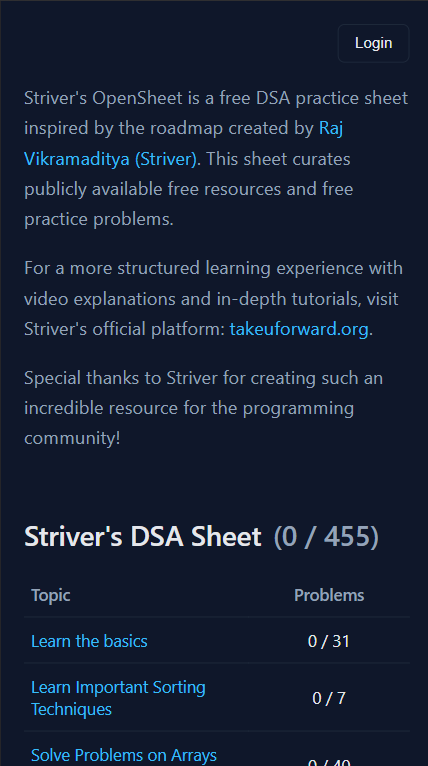
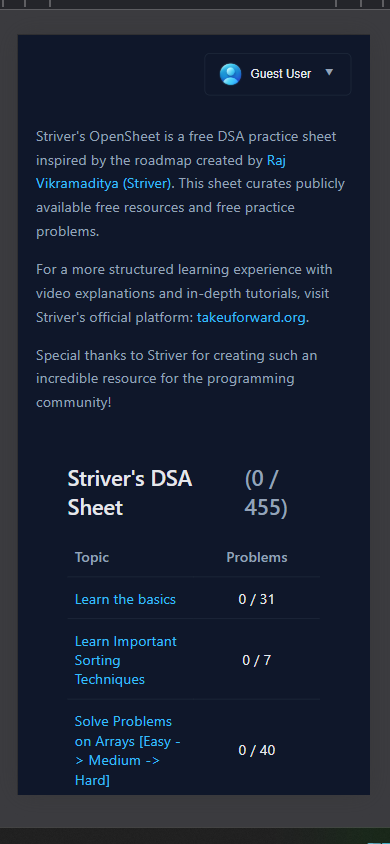
fix: restore PWA installability
Resolve the PWA configuration to make the application installable
on supported devices and browsers.

Version: v0.7.3

diff --git a/docs/sw.js b/docs/sw.js
@@ -1,67 +1,50 @@
-/**
- * File         : docs/sw.js
- * Description  : Service Worker for offline caching
- */
-
-const CACHE_NAME = "strivers-opensheet";
+const CACHE = `striveropensheet`;
 
 const STATIC_ASSETS = [
   "./",
   "./index.html",
-  "./topic.html",
-  "./settings.html",
+  "./manifest.json",
 
   "./styles/main.css",
   "./styles/index.css",
-  "./styles/topic.css",
+  "./styles/header.css",
   "./styles/settings.css",
+  "./styles/topic.css",
 
   "./scripts/main.js",
   "./scripts/index.js",
-  "./scripts/topic.js",
   "./scripts/header.js",
   "./scripts/settings.js",
+  "./scripts/topic.js",
 
-  "./data/topics.json",
+  "./assets/guest.png",
+  "./data/topics.png",
 ];
 
-/* ---------- Install ---------- */
-self.addEventListener("install", (event) => {
-  event.waitUntil(
-    caches.open(CACHE_NAME).then((cache) => cache.addAll(STATIC_ASSETS))
-  );
+self.addEventListener("install", (e) => {
+  e.waitUntil(caches.open(CACHE).then((cache) => cache.addAll(STATIC_ASSETS)));
+  self.skipWaiting();
 });
 
-/* ---------- Activate ---------- */
-self.addEventListener("activate", (event) => {
-  event.waitUntil(
-    caches.keys().then((keys) =>
-      Promise.all(
-        keys.map((key) => {
-          if (key !== CACHE_NAME) return caches.delete(key);
-        })
+self.addEventListener("activate", (e) => {
+  e.waitUntil(
+    caches
+      .keys()
+      .then((keys) =>
+        Promise.all(
+          keys.filter((k) => k !== CACHE).map((k) => caches.delete(k))
+        )
       )
-    )
   );
+  self.clients.claim();
 });
 
-/* ---------- Fetch ---------- */
-self.addEventListener("fetch", (event) => {
-  event.respondWith(
-    caches.match(event.request).then((cached) => {
-      return (
-        cached ||
-        fetch(event.request).then((res) => {
-          // cache topic JSON dynamically
-          if (event.request.url.includes("/data/topics/")) {
-            const copy = res.clone();
-            caches.open(CACHE_NAME).then((cache) => {
-              cache.put(event.request, copy);
-            });
-          }
-          return res;
-        })
-      );
+self.addEventListener("fetch", (e) => {
+  if (e.request.method !== "GET") return;
+
+  e.respondWith(
+    caches.match(e.request).then((cached) => {
+      return cached || fetch(e.request);
     })
   );
 });

diff --git a/docs/scripts/main.js b/docs/scripts/main.js
@@ -95,9 +95,3 @@ export function showToast(message, type = "info") {
     setTimeout(() => toast.remove(), 300);
   }, 3000);
 }
-
-// Register the service worker to enable offline support, caching,
-// and background updates (must be a separate file: /sw.js)
-if ("serviceWorker" in navigator) {
-  navigator.serviceWorker.register("sw.js");
-}

diff --git a/docs/index.html b/docs/index.html
@@ -91,4 +91,9 @@
   <script type="module" src="scripts/main.js"></script>
   <script type="module" src="scripts/index.js"></script>
   <script type="module" src="scripts/header.js"></script>
+  <script>
+    if ("serviceWorker" in navigator) {
+      navigator.serviceWorker.register("./sw.js");
+    }
+  </script>
 </html>
